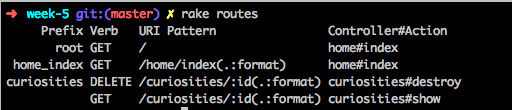
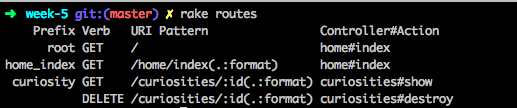
Fix issues with routes / wrong definition of prefix

diff --git a/app/controllers/curiosities_controller.rb b/app/controllers/curiosities_controller.rb
@@ -8,7 +8,7 @@ class CuriositiesController< ApplicationController
     @curiosity = Curiosity.find(params[:id]) # Récupère l'identifiant de la curiosité à supprimer
 	@curiosity.delete                        # Supprime la curiosité dans la base de données
 
-	redirect_to home_path             # Redirige l'utilisateur vers la vue Index
+	redirect_to root_path             # Redirige l'utilisateur vers la vue Index
   end
 
 end

diff --git a/config/routes.rb b/config/routes.rb
@@ -2,6 +2,6 @@ Rails.application.routes.draw do
   root 'home#index'
   get 'home/index'
 
-  delete '/curiosities/:id', to: 'curiosities#destroy', as: 'curiosities'
-  get '/curiosities/:id', to: 'curiosities#show'
+  get 'curiosities/:id', to: 'curiosities#show', as: 'curiosity'
+  delete 'curiosities/:id', to: 'curiosities#destroy'
 end

diff --git a/README.md b/README.md
@@ -116,13 +116,13 @@ Ce qui vous donne :
 
 ![Rake routes](/images/readme/rake_routes.png)
 
-La ligne qui nous intéresse est la suivante : ```  GET  /curiosities/:id(.:format) curiosities#show ```
+La ligne qui nous intéresse est la suivante : ``` curiosity GET  /curiosities/:id(.:format) curiosities#show ```
 
-Vous retrouvez bien le verbe HTTP ``` GET ``` (cf Verb), l'url ``` /curiosities/:id ```  (cf URI Pattern), la méthode du Contrôleur ``` curiosities#show ``` (cf Controller#Action). Et tout devant, un préfixe ``` curiosities ``` qui vous donne en fait le chemin à rajouter dans votre vue : ``` curiosities_path ```.
+Vous retrouvez bien le verbe HTTP ``` GET ``` (cf Verb), l'url ``` /curiosities/:id ```  (cf URI Pattern), la méthode du Contrôleur ``` curiosities#show ``` (cf Controller#Action). Et tout devant, un préfixe ``` curiosity ``` qui vous donne en fait le chemin à rajouter dans votre vue : ``` curiosity_path ```.
 
-Attention, ici, le contrôleur a besoin de l'identifiant (ID) de la curiosité à afficher. Il faut donc la passer dans les paramètres. Nous l'indiquons comme ceci : ``` curiosities_path(curiosity) ```.
+Attention, ici, le contrôleur a besoin de l'identifiant (ID) de la curiosité à afficher. Il faut donc la passer dans les paramètres. Nous l'indiquons comme ceci : ``` curiosity_path(curiosity) ```.
 
-> Important : ``` curiosities_path(curiosity) est une méthode générée par Ruby On Rails directement, en fonction de ce que vous avez défini dans le fichier ``` route.rb ``` . Elle accepte en paramètre un objet ``` curiosity ``` ou son identifiant ``` curiosity.id ```.
+> Important : ``` curiosity_path(curiosity) est une méthode générée par Ruby On Rails directement, en fonction de ce que vous avez défini dans le fichier ``` route.rb ``` . Elle accepte en paramètre un objet ``` curiosity ``` ou son identifiant ``` curiosity.id ```.
 
 Rajoutez le lien dans votre vue ``` app/views/home/index.html ``` :
 
